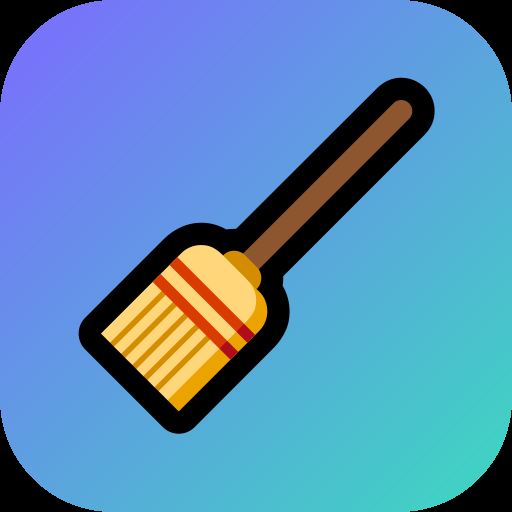
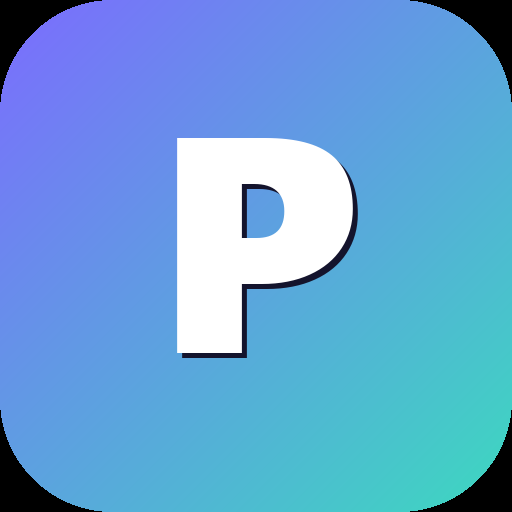
Убраны упоминания «мамы» и эмодзи-метла
- иконка приложения: градиент с буквой «Р» вместо метлы (и ярлык,
  и apple-touch-icon, и трей)
- тексты: «Работа MSK — вакансии с Авито», нейтральные подписи
- шапка страницы и трей: 💼 вместо 🧹

Changed region(s): [[0.1562, 0.125, 0.875, 0.8438]]

diff --git a/docs/index.html b/docs/index.html
@@ -2,7 +2,7 @@
 <html lang="ru" data-theme="dark">
 <head>
 <meta charset="utf-8">
-<title>Работа MSK · вакансии для мамы</title>
+<title>Работа MSK · вакансии с Авито</title>
 <meta name="viewport" content="width=device-width, initial-scale=1, viewport-fit=cover">
 <meta name="apple-mobile-web-app-capable" content="yes">
 <meta name="apple-mobile-web-app-status-bar-style" content="default">
@@ -17,7 +17,7 @@
 <header class="top">
   <div class="top-inner">
     <div class="brand">
-      <span class="brand-icon">🧹</span>
+      <span class="brand-icon">💼</span>
       <div>
         <div class="brand-title">Работа · Москва</div>
         <div class="brand-sub" id="updated">Загружаю…</div>

diff --git a/docs/app.js b/docs/app.js
@@ -1,4 +1,4 @@
-/* 🧹 Работа MSK — страница мамы: карточки, фильтры, избранное, блокировка.
+/* Работа MSK — страница: карточки, фильтры, избранное, блокировка.
    Данные — data/vacancies.json (локально) или ветка data на GitHub.
    Всё «моё» (избранное, скрытые, блокировки, заметки, скролл) живёт
    на телефоне в localStorage и никуда не отправляется. */

diff --git a/docs/app.css b/docs/app.css
@@ -1,4 +1,4 @@
-/* 🧹 Работа MSK — страница мамы. Тёмная и светлая темы, крупные кнопки,
+/* Работа MSK — страница. Тёмная и светлая темы, крупные кнопки,
    всё читаемо на iPhone в одну колонку. Спокойные цвета, ничего не мигает. */
 
 :root, [data-theme="dark"] {

diff --git a/_tools/make_icon.py b/_tools/make_icon.py
@@ -1,9 +1,9 @@
 # -*- coding: utf-8 -*-
-"""🎨 Иконка страницы: генерим PNG-ки без интернета (PIL есть на ПК).
+"""🎨 Иконка приложения: скруглённый квадрат с градиентом и буквой «Р».
 
-Рисуем скруглённый квадрат с градиентом и метёлкой 🧹 (шрифт эмодзи
-Windows — seguiemj.ttf). Результат: docs/apple-touch-icon.png (180),
-docs/icon-192.png, docs/icon-512.png.
+Без эмодзи-метлы: спокойный брендовый знак — градиент (фиолетовый →
+бирюзовый) и белая «Р» шрифтом Segoe UI Bold. Результат:
+docs/apple-touch-icon.png (180), docs/icon-192.png, docs/icon-512.png.
 """
 
 from __future__ import annotations
@@ -17,7 +17,12 @@ DOCS = ROOT / "docs"
 
 GRAD_FROM = (124, 108, 255)   # фиолетовый — как акцент страницы
 GRAD_TO = (61, 217, 192)      # бирюзовый
-EMOJI_FONT = r"C:\Windows\Fonts\seguiemj.ttf"
+LETTER = "Р"
+BOLD_FONTS = [
+    r"C:\Windows\Fonts\seguibl.ttf",
+    r"C:\Windows\Fonts\segoeuib.ttf",
+    r"C:\Windows\Fonts\arialbd.ttf",
+]
 
 
 def rounded_gradient(size: int) -> Image.Image:
@@ -42,20 +47,27 @@ def rounded_gradient(size: int) -> Image.Image:
     return img
 
 
-def with_emoji(size: int) -> Image.Image:
-    """🧹 Иконка с метёлкой по центру (или чистый градиент без шрифта)."""
+def with_letter(size: int) -> Image.Image:
+    """🅿 Белая «Р» по центру (крупно, с лёгкой тенью для чёткости)."""
     img = rounded_gradient(size)
-    try:
-        font = ImageFont.truetype(EMOJI_FONT, int(size * 0.62))
-        draw = ImageDraw.Draw(img)
-        text = "🧹"
-        box = draw.textbbox((0, 0), text, font=font, embedded_color=True)
-        w = box[2] - box[0]
-        h = box[3] - box[1]
-        draw.text(((size - w) / 2 - box[0], (size - h) / 2 - box[1]), text,
-                  font=font, embedded_color=True)
-    except Exception:
-        pass
+    font = None
+    for path in BOLD_FONTS:
+        try:
+            font = ImageFont.truetype(path, int(size * 0.60))
+            break
+        except OSError:
+            continue
+    if font is None:
+        font = ImageFont.load_default()
+    draw = ImageDraw.Draw(img)
+    box = draw.textbbox((0, 0), LETTER, font=font)
+    w, h = box[2] - box[0], box[3] - box[1]
+    x = (size - w) / 2 - box[0]
+    y = (size - h) / 2 - box[1] - int(size * 0.02)
+    # тень
+    draw.text((x + max(1, size // 90), y + max(1, size // 90)), LETTER,
+              font=font, fill=(20, 20, 45, 90))
+    draw.text((x, y), LETTER, font=font, fill=(255, 255, 255, 255))
     return img
 
 
@@ -64,9 +76,15 @@ def main() -> None:
     for size, name in ((180, "apple-touch-icon.png"),
                        (192, "icon-192.png"),
                        (512, "icon-512.png")):
-        img = with_emoji(size).convert("RGB")
+        img = with_letter(size).convert("RGB")
         img.save(DOCS / name, "PNG")
-        print(f"✅ {name} ({size}x{size})")
+        print(f"OK {name} ({size}x{size})")
+    # .ico для ярлыка
+    icon = with_letter(256)
+    icon.save(DOCS / "msk.ico",
+              sizes=[(256, 256), (128, 128), (64, 64), (48, 48),
+                     (32, 32), (16, 16)])
+    print("OK msk.ico")
 
 
 if __name__ == "__main__":

diff --git a/panel/panel.py b/panel/panel.py
@@ -4,7 +4,7 @@
 Как устроено:
     · ярлык на рабочем столе → открывает это окно;
     · окно можно свернуть в трей (крестик прячет, а не закрывает);
-    · в трее иконка 🧹 с меню: открыть панель / вкл-выкл сбора / выход;
+    · в трее иконка с меню: открыть панель / вкл-выкл сбора / выход;
     · автозапуск: папка «Автозагрузка» Windows (ставится кнопкой в
       настройках) — после перезагрузки ПК сервер поднимается сам;
     · при включении сбор идёт сразу и дальше каждые 15 минут.
@@ -101,7 +101,7 @@ class Panel(tk.Tk):
 
         top = ttk.Frame(self, padding=(16, 14, 16, 6))
         top.pack(fill="x")
-        ttk.Label(top, text="🧹 Работа MSK", font=FONT_TITLE).pack(side="left")
+        ttk.Label(top, text="💼 Работа MSK", font=FONT_TITLE).pack(side="left")
         ttk.Button(top, text="В трей", command=self._hide_to_tray) \
             .pack(side="right")
         self.lbl_ip = ttk.Label(top, text="", style="Muted.TLabel")
@@ -144,7 +144,7 @@ class Panel(tk.Tk):
         self.lbl_detail.pack(anchor="w", pady=(2, 0))
         self.lbl_hint = ttk.Label(
             status, text="Окно можно закрыть — сбор продолжит работать "
-                         "в трее (иконка 🧹 рядом с часами).",
+                         "в трее (иконка 💼 рядом с часами).",
             style="Muted.TLabel")
         self.lbl_hint.pack(anchor="w", pady=(2, 0))
 
@@ -185,7 +185,7 @@ class Panel(tk.Tk):
         return Image.new("RGB", (64, 64), (124, 108, 255))
 
     def _start_tray(self) -> None:
-        """🧹 Иконка в трее с меню — окно можно закрыть, сервер останется."""
+        """Иконка в трее с меню — окно можно закрыть, сервер останется."""
         try:
             import pystray
         except ImportError:
@@ -251,7 +251,7 @@ class Panel(tk.Tk):
             return
         self.withdraw()
         self._log("🙈 Свернулись в трей — сбор продолжается. "
-                  "Иконка 🧹 рядом с часами.")
+                  "Иконка 💼 рядом с часами.")
 
     def _show_window(self) -> None:
         """👀 Вернуть окно из трея."""

diff --git a/collector/notify.py b/collector/notify.py
@@ -3,8 +3,8 @@
 
 Три операции:
     send(...)      — отправить текст (HTML-разметка);
-    find_chat(...) — найти chat_id: мама жмёт Start у бота, панель ловит;
-    digest(...)    — красивая сводка новинок для мамы.
+    find_chat(...) — найти chat_id: человек жмёт Start у бота, панель ловит;
+    digest(...)    — красивая сводка новинок.
 """
 
 from __future__ import annotations
@@ -40,7 +40,7 @@ def check(token: str) -> tuple[bool, str]:
 
 
 def find_chat(token: str) -> tuple[bool, str, str]:
-    """💬 Поймать chat_id: мама отправляет боту /start, панель ищет.
+    """💬 Поймать chat_id: человек отправляет боту /start, панель ищет.
 
     Возвращает (ок, chat_id или "", понятное сообщение).
     """
@@ -57,8 +57,8 @@ def find_chat(token: str) -> tuple[bool, str, str]:
                                         chat.get("last_name")) if x)
             chats.append((int(chat["id"]), name or str(chat["id"])))
     if not chats:
-        return False, "", ("Никто ещё не написал боту. Попросите маму "
-                           "нажать Start в Telegram — и нажмите снова.")
+        return False, "", ("Никто ещё не написал боту. Откройте Telegram, "
+                           "нажмите Start у бота — и повторите поиск.")
     chat_id, name = chats[-1]
     return True, str(chat_id), f"Найден чат: {name}"
 

diff --git a/collector/store.py b/collector/store.py
@@ -1,5 +1,5 @@
 # -*- coding: utf-8 -*-
-"""🗄 База: SQLite (история и дедупликация) + JSON для страницы мамы.
+"""🗄 База: SQLite (история и дедупликация) + JSON для страницы.
 
 SQLite держит всё, что видели: первую и последнюю встречу каждой вакансии,
 описание, рейтинг работодателя, оценку мозга. Наружу (на страницу) уходит
@@ -177,7 +177,7 @@ def log_run(con: sqlite3.Connection, found: int, relevant: int, fresh: int,
 
 
 def export_site(con: sqlite3.Connection, fresh_since: int) -> dict:
-    """🌐 Срез для страницы мамы: последние подходящие, свежие сверху.
+    """🌐 Срез для страницы: последние подходящие, свежие сверху.
 
     fresh_since — отметка времени прошлого визита (что «новое»).
     Возвращает готовый словарь (он же пишется в JSON).
@@ -232,7 +232,7 @@ def save_status(payload: dict) -> None:
 
 
 def new_since(con: sqlite3.Connection) -> int:
-    """🕐 Время последнего визита мамы (0 — ещё не заходила: всё новое)."""
+    """🕐 Время последнего визита (0 — ещё не заходили: всё новое)."""
     row = con.execute("SELECT value FROM meta WHERE key='last_visit'") \
         .fetchone()
     try:

diff --git a/collector/publish.py b/collector/publish.py
@@ -5,7 +5,7 @@
 один коммит, который обновляется amend-ом и уезжает force-push-ом.
 Никакого замусоривания истории — репозиторий всегда чистый.
 
-Страница мамы берёт свежий JSON по адресу
+Страница берёт свежий JSON по адресу
     https://raw.githubusercontent.com/<user>/<repo>/<branch>/vacancies.json
 подставляя метку времени — так кэш CDN не мешает свежести.
 """
@@ -37,7 +37,7 @@ def _git(args: list[str], cwd: Path, timeout: int = 120) -> tuple[int, str]:
 
 
 def raw_url(repo_url: str, branch: str) -> str:
-    """🌐 Адрес сырого JSON (то, что тянет страница мамы)."""
+    """🌐 Адрес сырого JSON (то, что тянет страница)."""
     repo = repo_url.rstrip("/")
     for prefix in ("https://github.com/", "git@github.com:"):
         if repo.startswith(prefix):
@@ -87,5 +87,5 @@ def publish(repo_url: str, branch: str, payload: dict,
 
 
 def clear_clone() -> None:
-    """🧹 Забыть локальный клон (если репозиторий перенастроили)."""
+    """Забыть локальный клон (если репозиторий перенастроили)."""
     shutil.rmtree(CLONE_DIR, ignore_errors=True)

diff --git a/collector/brain.py b/collector/brain.py
@@ -41,7 +41,7 @@ FALSE_WORDS = (
 )
 
 # «Сильно чужие» слова для описания: если их в тексте набирается много —
-# это курьерская вакансия под маской горничной (жалоба мамы как раз про это).
+# это курьерская вакансия под маской горничной — частая подмена.
 STRONG_FALSE_WORDS = (
     "курьер", "доставк", "водител", "такси", "грузчик", "развоз",
     "промоутер", "пеший", "личный автомобил", "личном автомобил",
@@ -120,7 +120,7 @@ def analyze(item: dict) -> dict:
         reasons.append((-100, f"Заголовок не про дом: {title_false[0]}…"))
     elif title_false and title_target:
         # «Горничная-курьер», «Уборщица-промоутер» — та самая подмена,
-        # из-за которой мама листает курьеров под словом «горничная»
+        # когда под словом «горничная» прячется курьер
         relevant = False
         reasons.append((-100, f"Смешанный заголовок ({title_false[0]}…) — "
                               f"похоже, работа не про уборку"))

diff --git a/collector/settings.py b/collector/settings.py
@@ -31,7 +31,7 @@ DEFAULTS = {
     "repo_branch": "data",         # ветка с данными (один обновляемый коммит)
     "site_url": "",                # https://<user>.github.io/rabota-msk/
     "telegram_token": "",          # опция: пусто = выключено
-    "telegram_chat": "",           # chat_id мамы (ловится кнопкой «Привязать»)
+    "telegram_chat": "",           # chat_id владельца (ловится кнопкой «Привязать»)
     "headless": False,             # Авито пропускает живой браузер, не headless
     "auto_start": True,            # при открытии панели сбор стартует сам
     "auto_restart": True,          # если сбор упал — поднять заново

diff --git a/collector/collect.py b/collector/collect.py
@@ -8,7 +8,7 @@
     4) новые карточки → «детали» (описание, оформление, рейтинг) — но
        не больше лимита за цикл (вежливость);
     5) мозг: отсев ложных «горничных» + оценка «выгоды» с причинами;
-    6) база SQLite + срез для страницы мамы (data/vacancies.json).
+    6) база SQLite + срез для страницы (data/vacancies.json).
     7) публикация на GitHub (+ Telegram-дайджест, если включён).
 
 Запуск:

diff --git a/_tools/e2e.py b/_tools/e2e.py
@@ -1,5 +1,5 @@
 # -*- coding: utf-8 -*-
-"""🖥 E2E: страница мамы на локальном сервере + скриншоты.
+"""🖥 E2E: страница на локальном сервере + скриншоты.
 
 Кладёт демо-данные (или реальный срез из data/vacancies.json, если он
 есть), поднимает http на 8788 поверх docs/ и снимает скриншоты:
